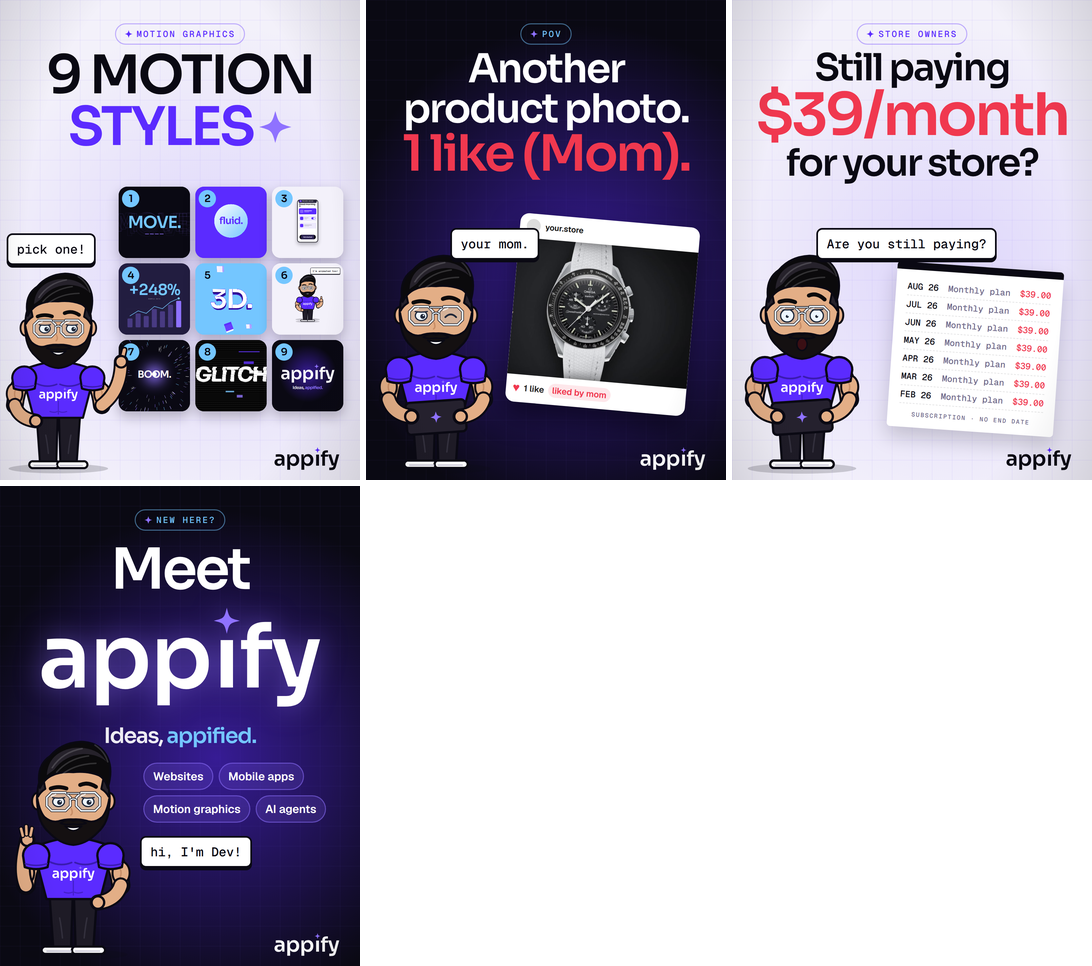
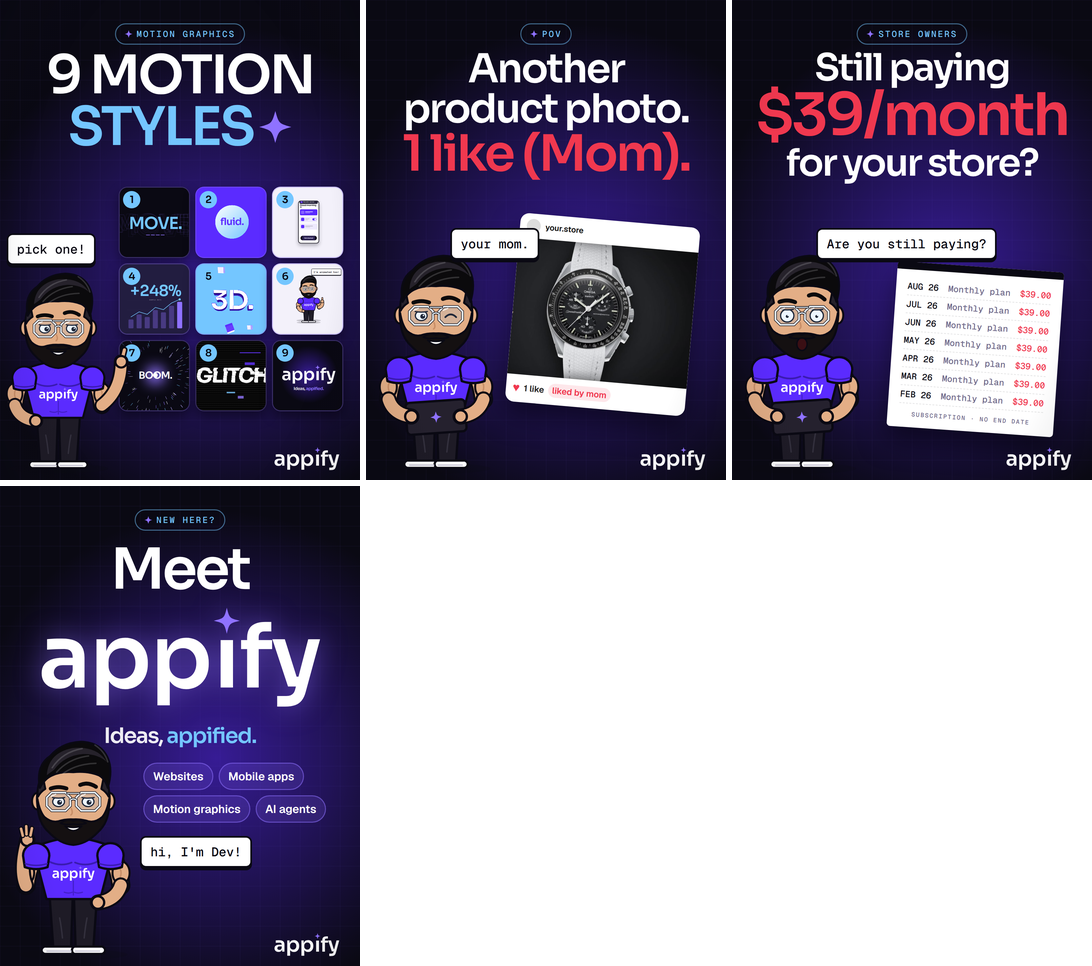
Covers: all four on the dark ink + uv-glow background
Claude-Session: https://claude.ai/code/session_01J8CdFv3swMV9cdtzd73STo

Changed region(s): [[0.0, 0.0, 0.3425, 0.4969], [0.6538, 0.0, 1.0, 0.4969]]

diff --git a/appify-showreel/src/Covers.jsx b/appify-showreel/src/Covers.jsx
@@ -1,7 +1,7 @@
 // Instagram covers: one template for every post so the profile grid reads as one brand.
 // 9:16 stills; everything that matters sits in the centre 1080x1440 band (the 3:4 profile-grid crop).
 // Same parts on every cover: kicker pill, big Sora hook with one accent line, one visual, Dev with a speech bubble,
-// the wordmark. Covers alternate dark / light in posting order so the 3-column grid forms a checkerboard.
+// the wordmark. All covers share the dark ink + uv-glow background so the grid reads as one series.
 import { AbsoluteFill, Img, staticFile, useVideoConfig } from "remotion";
 import { useFonts } from "./fx.jsx";
 import { WORDMARK, sparkPath } from "./brand.js";
@@ -79,9 +79,9 @@ export const CoverLogo = () => (
 // ── post 2 · subscription killer: still paying $39/month ──────────────────────────────────────────
 const MONTHS = ["AUG", "JUL", "JUN", "MAY", "APR", "MAR", "FEB"];
 export const CoverStore = () => (
-  <Frame kicker="store owners">
-    <Hook lines={[["Still paying", 112, C.ink], ["$39/month", 176, C.alert], ["for your store?", 112, C.ink]]} />
-    <div style={{ position: "absolute", left: 480, top: 800, width: 500, padding: "34px 34px 28px", background: "#fff", borderRadius: 10, boxShadow: "0 30px 60px rgba(10,9,19,.18)", transform: "rotate(4deg)", fontFamily: "Mono", color: C.ink }}>
+  <Frame dark kicker="store owners">
+    <Hook lines={[["Still paying", 112, "#fff"], ["$39/month", 176, C.alert], ["for your store?", 112, "#fff"]]} />
+    <div style={{ position: "absolute", left: 480, top: 800, width: 500, padding: "34px 34px 28px", background: "#fff", borderRadius: 10, boxShadow: "0 40px 80px rgba(0,0,0,.5)", transform: "rotate(4deg)", fontFamily: "Mono", color: C.ink }}>
       <div style={{ height: 22, margin: "-34px -34px 24px", background: C.ink, borderRadius: "10px 10px 0 0" }} />
       {MONTHS.map((m) => (
         <div key={m} style={{ display: "flex", justifyContent: "space-between", fontSize: 26, padding: "9px 0", borderBottom: "2px dashed rgba(10,9,19,.12)" }}>
@@ -117,11 +117,11 @@ const COVER_T = [40, 38, 34, 40, 20, 33, 26, 3, 40];
 export const CoverShowreel = () => {
   const tile = 214, gap = 16, gx = 1080 - 50 - (3 * tile + 2 * gap), gy = 560;
   return (
-    <Frame kicker="motion graphics">
-      <Hook lines={[["9 MOTION", 160, C.ink]]} top={150} />
-      <div style={{ position: "absolute", left: 0, right: 0, top: 305, display: "flex", justifyContent: "center", alignItems: "center", gap: 16, ...D, fontSize: 160, color: C.uv }}>STYLES<Spark size={100} color={C.iris} /></div>
+    <Frame dark kicker="motion graphics">
+      <Hook lines={[["9 MOTION", 160, "#fff"]]} top={150} />
+      <div style={{ position: "absolute", left: 0, right: 0, top: 305, display: "flex", justifyContent: "center", alignItems: "center", gap: 16, ...D, fontSize: 160, color: C.sky }}>STYLES<Spark size={100} color={C.iris} /></div>
       {SCENES.map((Sc, k) => (
-        <div key={k} style={{ position: "absolute", left: gx + (k % 3) * (tile + gap), top: gy + Math.floor(k / 3) * (tile + gap), width: tile, height: tile, borderRadius: 26, overflow: "hidden", background: SCENE_BG[k], boxShadow: "0 16px 36px rgba(10,9,19,.25)" }}>
+        <div key={k} style={{ position: "absolute", left: gx + (k % 3) * (tile + gap), top: gy + Math.floor(k / 3) * (tile + gap), width: tile, height: tile, borderRadius: 26, overflow: "hidden", background: SCENE_BG[k], boxShadow: "0 16px 36px rgba(0,0,0,.45)", border: "3px solid rgba(143,114,255,.35)" }}>
           <div style={{ position: "absolute", width: 1080, height: 1080, transform: `scale(${tile / 1080})`, transformOrigin: "0 0" }}>
             <AbsoluteFill style={{ background: SCENE_BG[k], transform: `translateY(${k === 3 ? 90 : 0}px)` }}><Sc t={COVER_T[k]} W={1080} H={1080} u={1} /></AbsoluteFill>
           </div>
